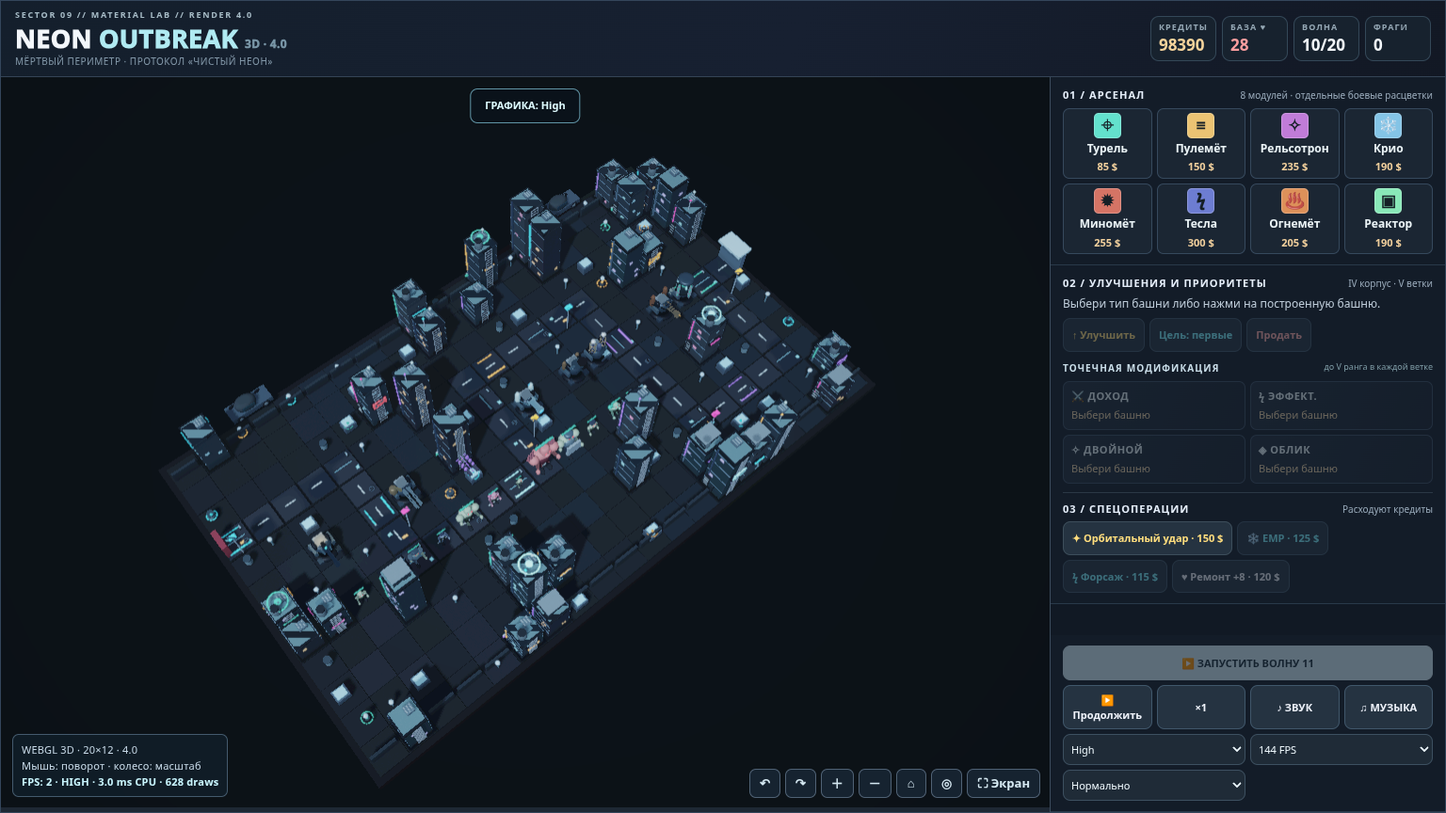
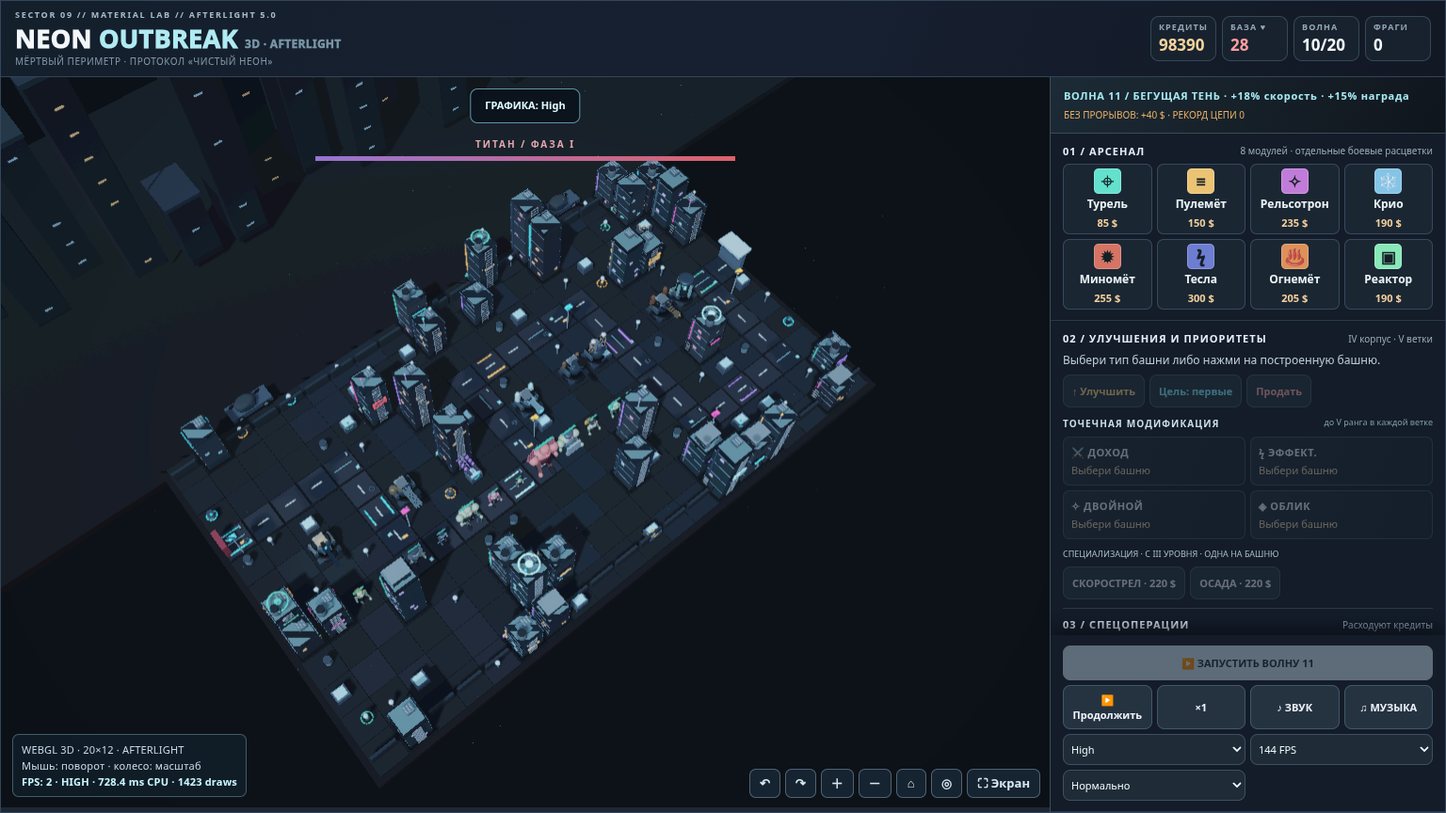
Add Afterlight campaign doctrines, tower specializations, elite operations and atmosphere

diff --git a/js/game.js b/js/game.js
@@ -63,9 +63,27 @@ return k==='damage'?`+${Math.round(r*22)}% урон`:k==='rate'?`+${Math.round(r
 function modify(k){const t=selected;if(!t||over||!towers.includes(t)||!MODS.includes(k))return;const m=mods(t),rank=m[k],price=modCost(t,k);if(rank>=5||money<price)return;money-=price;t.invested+=price;m[k]++;burst(t.x,t.z,DEF[t.type].color,18,4);ring(t.x,t.z,DEF[t.type].color,1.65);tone(725+rank*70,.16,'triangle',.016);toast(`МОДУЛЬ ${modLabels[k]} · РАНГ ${m[k]}/5`);hud()}
 function critChance(t){return .06+mods(t).crit*.075}
 function critPower(t){return 1.65+mods(t).crit*.21}
-function lvCost(t){return Math.round(DEF[t.type].cost*.62+t.level*76)}function range(t){return T*(DEF[t.type].range+(t.level-1)*.28)}function dmg(t){return DEF[t.type].dmg*(1+.56*(t.level-1))*(1+mods(t).damage*.22)}function income(t){const m=mods(t),base=DEF.bank.income*(1+(t.level-1)*.7)*(1+.22*m.damage+.16*m.rate);return Math.round(base)}
-function reset(){corpses=[];inspecting=false;money=580;hp=28;wave=0;kills=0;towers=[];zombies=[];bullets=[];particles=[];beams=[];explosions=[];selected=null;build='gun';ability=null;hover=null;active=false;paused=false;over=false;spawnLeft=0;spawnCount=0;total=0;spawnClock=0;speed=1;emp=0;boost=0;difficulty=1;uid=0;elapsed=0;shake=0;hudClock=0;msgClock=0;$('#n-end').style.display='none';$('#n-progress').style.width='0%';$('#n-difficulty').value='1';$('#n-difficulty').disabled=false;toast('3D-ПРОТОКОЛ АКТИВЕН · УДЕРЖИ СЕКТОР 09',4);hud()}
+function lvCost(t){return Math.round(DEF[t.type].cost*.62+t.level*76)}function range(t){return T*(DEF[t.type].range+(t.level-1)*.28+(t.specialty==='siege'?.65:0))}function dmg(t){return DEF[t.type].dmg*(1+.56*(t.level-1))*(1+mods(t).damage*.22)*(1+research.kinetic*.08)*(t.specialty==='siege'?1.3:1)}function income(t){const m=mods(t),base=DEF.bank.income*(1+(t.level-1)*.7)*(1+.22*m.damage+.16*m.rate);return Math.round(base*(1+research.economy*.08)*(t.specialty==='siege'?1.3:t.specialty==='rapid'?1.2:1))}
+// Campaign-wide decisions are independent of tower ranks and never block the next wave.
+let research={kinetic:0,control:0,economy:0},researchPoints=0,combo=0,comboClock=0,bestCombo=0,waveLeaks=0,pulseCooldown=0;
+const OPERATIONS=[{name:'КАРАНТИН',hint:'Обычный натиск',hp:1,speed:1},{name:'БЕГУЩАЯ ТЕНЬ',hint:'+18% скорость · +15% награда',hp:1,speed:1.18},{name:'ЖЕЛЕЗНЫЙ ДОЖДЬ',hint:'+25% здоровье · +20% награда',hp:1.25,speed:.95},{name:'ЗОЛОТАЯ ЛИХОРАДКА',hint:'+35% награда · элитные заражённые',hp:1.1,speed:1.05}];
+function operation(n){return OPERATIONS[Math.floor((Math.max(1,n)-1)/2)%OPERATIONS.length]}
+function researchBuy(key){if(!Object.hasOwn(research,key)||!researchPoints||over||research[key]>=5)return;researchPoints--;research[key]++;tone(980,.16);toast('ДОКТРИНА УСИЛЕНА · РАНГ '+research[key]);hud()}
+function specialize(kind){const t=selected;if(!t||!['siege','rapid'].includes(kind)||t.level<3||t.specialty||money<220||over)return;money-=220;t.invested+=220;t.specialty=kind;burst(t.x,t.z,DEF[t.type].color,24,3);hud()}
+function tacticalPulse(){if(!active||paused||over||pulseCooldown>0)return;pulseCooldown=24;for(const e of zombies){e.slow=Math.max(e.slow,2.5+research.control*.3);e.hurt=.18}ring(0,0,'#a6eaf2',24);toast('ТАКТИЧЕСКИЙ ИМПУЛЬС · ПЕРЕЗАРЯДКА 24 СЕК');tone(540,.35,'sine');hud()}
+function campaignHUD(){
+ const next=active?wave:Math.min(MAX,wave+1),op=operation(next);
+ $('#n-forecast').textContent='ВОЛНА '+next+' / '+op.name+' · '+(next%5===0?'БОСС · ':'')+op.hint;
+ $('#n-combo').textContent=combo>1?'ЦЕПЬ ×'+combo+' · РЕКОРД '+bestCombo:'БЕЗ ПРОРЫВОВ: +40 $ · РЕКОРД ЦЕПИ '+bestCombo;
+ $('#n-research-count').textContent=researchPoints+' ОЧК. · КАЖДЫЕ 3 ВОЛНЫ';
+ root.querySelectorAll('[data-research]').forEach(b=>{const k=b.dataset.research;b.disabled=!researchPoints||research[k]>=5||over;b.querySelector('small').textContent=research[k]+'/5 · '+({kinetic:'+8% урон',control:'+12% контроль',economy:'+8% доход'}[k])});
+ for(const kind of ['rapid','siege']){const b=$('#n-spec-'+kind);b.disabled=!selected||selected.level<3||!!selected.specialty||money<220||over;b.textContent=selected?.specialty===kind?'✓ '+(kind==='rapid'?'СКОРОСТРЕЛ':'ОСАДА'):(kind==='rapid'?'СКОРОСТРЕЛ':'ОСАДА')+' · 220 $';}
+ $('#n-pulse').disabled=!active||pulseCooldown>0||over||paused;$('#n-pulse').textContent=pulseCooldown>0?'ИМПУЛЬС · '+Math.ceil(pulseCooldown)+' с':'◉ ТАКТИЧЕСКИЙ ИМПУЛЬС · ГОТОВ';
+ const boss=zombies.find(e=>e.type==='boss'&&!e.dead);$('#n-boss').hidden=!boss;if(boss){$('#n-boss-name').textContent=boss.enraged?'ТИТАН / ФАЗА II — ЯРОСТЬ':'ТИТАН / ФАЗА I';$('#n-boss-hp').style.width=(100*boss.hp/boss.max)+'%';}
+}
+function reset(){$('.controls-panel').scrollTop=0;research={kinetic:0,control:0,economy:0};researchPoints=combo=bestCombo=comboClock=waveLeaks=pulseCooldown=0;corpses=[];inspecting=false;money=580;hp=28;wave=0;kills=0;towers=[];zombies=[];bullets=[];particles=[];beams=[];explosions=[];selected=null;build='gun';ability=null;hover=null;active=false;paused=false;over=false;spawnLeft=0;spawnCount=0;total=0;spawnClock=0;speed=1;emp=0;boost=0;difficulty=1;uid=0;elapsed=0;shake=0;hudClock=0;msgClock=0;$('#n-end').style.display='none';$('#n-progress').style.width='0%';$('#n-difficulty').value='1';$('#n-difficulty').disabled=false;toast('3D-ПРОТОКОЛ АКТИВЕН · УДЕРЖИ СЕКТОР 09',4);hud()}
 function hud(){
+campaignHUD();
 $('#n-cash').textContent=Math.floor(money);$('#n-hp').textContent=hp;$('#n-wave').textContent=wave+'/20';$('#n-kills').textContent=kills;
 $('#n-start').disabled=active||over||paused||wave>=MAX;$('#n-start').textContent=active?'☣ ИДЁТ ВОЛНА '+wave:'▶ ЗАПУСТИТЬ ВОЛНУ '+(wave+1);
 $('#n-pause').textContent=paused?'▶ Продолжить':'Ⅱ Пауза';$('#n-speed').textContent='×'+speed;
@@ -88,24 +106,24 @@ function overdrive(){if(!active||over||money<115)return;money-=115;boost=7;toast
 function repair(){if(money<120||over||hp>=28)return;money-=120;hp=Math.min(28,hp+8);let p=w(19,5);burst(p.x,p.z,'#b8ffc9',22,4,2);tone(840,.18);hud()}
 function orbital(x,z){if(money<150||over)return;money-=150;ability=null;selected=null;build=null;ring(x,z,'#ffcd97',T*2.45);burst(x,z,'#ffe3b9',76,8,1.2);synthEffect('blast',x,z,true);shake=.28;for(const e of zombies){let dis=Math.hypot(e.x-x,e.z-z);if(!e.dead&&dis<T*2.45)hit(e,(450+wave*30)*(1-.38*dis/(T*2.45)),true)}tone(105,.42,'sawtooth',.045);hud()}
 function makeType(i,n){if(wave%5===0&&i===n-1)return'boss';if(wave>=9&&i%12===9)return'bulwark';if(wave>=7&&i%11===6)return'reaper';if(wave>=5&&i%10===3)return'regen';if(wave>=8&&i%13===9)return'brute';if(wave>=6&&i%10===7)return'splitter';if(wave>=4&&i%8===4)return'armor';if(wave>=3&&i%7===3)return'shadow';if(wave>=2&&i%4===2)return'runner';return'walker'}
-function spawn(type,x=route[0].x,z=route[0].z,segment=1){const sc=1.22+.26*(wave-1)+.013*(wave-1)*(wave-1),st={walker:[72,1.10,.7,14],runner:[48,2.1,.57,12],armor:[215,.8,.86,29],shadow:[84,1.72,.62,21],splitter:[145,1.24,.74,26],brute:[440,.73,1.07,52],bulwark:[660,.66,1.14,60],reaper:[130,2.30,.74,25],regen:[310,1.03,.80,35],boss:[1300+wave*255,.61,1.45,240],mini:[32,2.15,.43,7]}[type],health=st[0]*sc*difficulty;zombies.push({id:++uid,type,x,z,seg:segment,hp:health,max:health,v:st[1]+(type==='boss'?0:wave*.023),scale:st[2],reward:st[3],age:Math.random()*2,angle:0,slow:0,burn:0,dead:false});if(type==='boss')synthEffect('boss',x,z,true);}
-function start(){if(over||active||paused||wave>=MAX)return;wave++;active=true;difficulty=Number($('#n-difficulty').value)||1;$('#n-difficulty').disabled=true;total=20+wave*6+(wave%5===0?20:0);spawnLeft=total;spawnCount=0;spawnClock=.25;toast(wave%5===0?'⚠ БОСС И ОРДА · ВОЛНА '+wave:'☣ ВОЛНА '+wave+' · '+total+' ЗАРАЖЁННЫХ',3.3);tone(175,.3,'sawtooth',.028);synthEffect('siren',0,0,true);hud()}
-function kill(e){if(e.dead)return;e.dead=true;corpses.push({...e,ttl:.65});if(corpses.length>24)corpses.shift();kills++;money+=e.reward;burst(e.x,e.z,e.type==='boss'?'#ff929a':'#a9d4b8',e.type==='boss'?54:12,e.type==='boss'?8:3,e.scale*1.3);if(e.type==='boss'){shake=.27;tone(125,.3,'sawtooth',.035)}zombieVoice(e,true);if(e.type==='splitter')for(let i=0;i<2;i++)spawn('mini',e.x+(i?.3:-.3),e.z+(i?-.2:.2),e.seg)}
+function spawn(type,x=route[0].x,z=route[0].z,segment=1){const sc=1.22+.26*(wave-1)+.013*(wave-1)*(wave-1),st={walker:[72,1.10,.7,14],runner:[48,2.1,.57,12],armor:[215,.8,.86,29],shadow:[84,1.72,.62,21],splitter:[145,1.24,.74,26],brute:[440,.73,1.07,52],bulwark:[660,.66,1.14,60],reaper:[130,2.30,.74,25],regen:[310,1.03,.80,35],boss:[1300+wave*255,.61,1.45,240],mini:[32,2.15,.43,7]}[type],health=st[0]*sc*difficulty;zombies.push({id:++uid,type,x,z,seg:segment,hp:health,max:health,v:st[1]+(type==='boss'?0:wave*.023),scale:st[2],reward:st[3],age:Math.random()*2,angle:0,slow:0,burn:0,dead:false});const e=zombies[zombies.length-1],op=operation(wave);e.max*=op.hp;e.hp=e.max;e.v*=op.speed;e.reward=Math.round(e.reward*(op===OPERATIONS[1]?1.15:op===OPERATIONS[2]?1.2:op===OPERATIONS[3]?1.35:1));if(type!=='boss'&&wave>=4&&e.id%9===0){e.elite=true;e.max*=1.55;e.hp=e.max;e.reward*=2;e.scale*=1.10;}if(type==='boss')synthEffect('boss',x,z,true);}
+function start(){if(over||active||paused||wave>=MAX)return;wave++;waveLeaks=0;combo=0;active=true;difficulty=Number($('#n-difficulty').value)||1;$('#n-difficulty').disabled=true;total=20+wave*6+(wave%5===0?20:0);spawnLeft=total;spawnCount=0;spawnClock=.25;toast(wave%5===0?'⚠ БОСС И ОРДА · ВОЛНА '+wave:'☣ ВОЛНА '+wave+' · '+total+' ЗАРАЖЁННЫХ',3.3);tone(175,.3,'sawtooth',.028);synthEffect('siren',0,0,true);hud()}
+function kill(e){if(e.dead)return;e.dead=true;corpses.push({...e,ttl:.65});if(corpses.length>24)corpses.shift();kills++;combo=comboClock>0?combo+1:1;comboClock=2.5;bestCombo=Math.max(bestCombo,combo);money+=Math.round(e.reward*(1+research.economy*.08));if(combo%10===0){money+=15;toast('ЦЕПЬ ×'+combo+' · +15 $',1.2)}burst(e.x,e.z,e.type==='boss'?'#ff929a':'#a9d4b8',e.type==='boss'?54:12,e.type==='boss'?8:3,e.scale*1.3);if(e.type==='boss'){shake=.27;tone(125,.3,'sawtooth',.035)}zombieVoice(e,true);if(e.type==='splitter')for(let i=0;i<2;i++)spawn('mini',e.x+(i?.3:-.3),e.z+(i?-.2:.2),e.seg)}
 function hit(e,amount,pierce=false,slow=0,burn=0){if(e.dead)return;e.hurt=.18;e.hp-=amount*(((e.type==='armor'||e.type==='bulwark')&&!pierce)?(e.type==='bulwark'?.42:.57):1);e.slow=Math.max(e.slow,slow);e.burn=Math.max(e.burn,burn);if(e.hp<=0)kill(e)}
-function target(t){let best=null,score=-Infinity;for(const e of zombies){if(e.dead)continue;let di=Math.hypot(e.x-t.x,e.z-t.z);if(di>range(t))continue;let k=t.priority==='strong'?e.hp:t.priority==='near'?-di:e.seg*1000-di;if(k>score){score=k;best=e}}return best}
-function shoot(t,e){const d=DEF[t.type];t.aim=Math.atan2(e.x-t.x,e.z-t.z);t.cool=d.rate/(1+.14*(t.level-1))/(1+mods(t).rate*.17)/(boost>0?1.6:1);t.flash=.1;const crit=Math.random()<critChance(t),shotDamage=dmg(t)*(crit?critPower(t):1);
+function target(t){let best=null,score=-Infinity;for(const e of zombies){if(e.dead)continue;let di=Math.hypot(e.x-t.x,e.z-t.z);if(di>range(t))continue;let k=t.priority==='strong'?e.hp:t.priority==='near'?-di:e.seg*1000-Math.hypot(e.x-route[Math.min(e.seg,route.length-1)].x,e.z-route[Math.min(e.seg,route.length-1)].z);if(k>score){score=k;best=e}}return best}
+function shoot(t,e){const d=DEF[t.type];t.aim=Math.atan2(e.x-t.x,e.z-t.z);t.cool=d.rate/(1+.14*(t.level-1))/(1+mods(t).rate*.17)/(boost>0?1.6:1)/(t.specialty==='rapid'?1.35:1);t.flash=.1;const crit=Math.random()<critChance(t),shotDamage=dmg(t)*(crit?critPower(t):1);
 if(d.chain){let cur=e,prev={x:t.x,y:1.3,z:t.z},seen=new Set();for(let i=0;i<3+Math.floor((t.level-1)/2)&&cur;i++){const to={x:cur.x,y:.95*cur.scale+0.2,z:cur.z};beams.push({a:prev,b:to,ttl:.19,color:d.color});let x=cur.x,z=cur.z;hit(cur,shotDamage*Math.pow(.77,i),true);seen.add(cur.id);prev={x,y:to.y,z};let next=null,near=2.6;for(let q of zombies){let distance=Math.hypot(q.x-x,q.z-z);if(!q.dead&&!seen.has(q.id)&&distance<near){near=distance;next=q}}cur=next}burst(e.x,e.z,'#b0c0ff',7,2)}
-else{bullets.push({x:t.x,y:1.52,z:t.z,tx:e.x,ty:.95*e.scale+0.2,tz:e.z,target:e,type:t.type,damage:shotDamage,critical:crit,vel:d.vel,aoe:d.aoe||0,slow:d.slow||0,burn:d.burn||0,pierce:!!d.pierce,color:d.color,ttl:2})}
+else{bullets.push({x:t.x,y:1.52,z:t.z,tx:e.x,ty:.95*e.scale+0.2,tz:e.z,target:e,type:t.type,damage:shotDamage,critical:crit,vel:d.vel,aoe:d.aoe||0,slow:(d.slow||0)*(1+research.control*.12),burn:(d.burn||0)*(1+research.control*.12),pierce:!!d.pierce,color:d.color,ttl:2})}
 synthEffect(t.type,t.x,t.z)
 }
 function finish(win){over=true;active=false;paused=false;$('#n-end').style.display='flex';$('#n-emblem').textContent=win?'🏆':'☠';$('#n-endtitle').textContent=win?'СЕКТОР ОЧИЩЕН':'ОБОРОНА ПАЛА';$('#n-endtitle').style.color=win?'#c3f6ff':'#ffa3a2';$('#n-endinfo').textContent=win?'Ты пережил 20 волн и уничтожил '+kills+' заражённых. Периметр удержан.':'База уничтожена на волне '+wave+'. Убито '+kills+' мутантов. Перестрой оборону и попробуй снова.';tone(win?800:125,.4,win?'triangle':'sawtooth',.045);hud()}
-function step(dt){if(!paused){for(const body of corpses)body.ttl-=dt;corpses=corpses.filter(body=>body.ttl>0)}elapsed+=dt;if(msgClock>0){msgClock-=dt;if(msgClock<=0)$('#n-toast').style.opacity='0'}shake=Math.max(0,shake-dt);if(paused||over)return;emp=Math.max(0,emp-dt);boost=Math.max(0,boost-dt);
+function step(dt){if(!paused){for(const body of corpses)body.ttl-=dt;corpses=corpses.filter(body=>body.ttl>0)}elapsed+=dt;if(msgClock>0){msgClock-=dt;if(msgClock<=0)$('#n-toast').style.opacity='0'}shake=Math.max(0,shake-dt);if(paused||over)return;pulseCooldown=Math.max(0,pulseCooldown-dt);comboClock=Math.max(0,comboClock-dt);emp=Math.max(0,emp-dt);boost=Math.max(0,boost-dt);
 if(active&&spawnLeft){spawnClock-=dt;while(spawnClock<=0&&spawnLeft){spawn(makeType(spawnCount,total));spawnLeft--;spawnCount++;spawnClock+=Math.max(.16,.46-wave*.010)}}
-for(const e of zombies){if(e.dead)continue;e.hurt=Math.max(0,(e.hurt||0)-dt);e.age+=dt;e.slow=Math.max(0,e.slow-dt);if(active&&Math.random()<dt*.085)zombieVoice(e);if(e.type==='regen')e.hp=Math.min(e.max,e.hp+dt*e.max*.011);if(e.burn>0){e.burn=Math.max(0,e.burn-dt);e.hp-=28*dt;if(e.hp<=0){kill(e);continue}}let travel=dt*e.v*(emp>0?.065:e.slow>0?.43:1),guard=0;while(travel>0&&e.seg<route.length&&guard++<35){const p=route[e.seg],dx=p.x-e.x,dz=p.z-e.z,d=Math.hypot(dx,dz);if(d<.00001){e.seg++;continue}e.angle=Math.atan2(dx,dz);if(travel>=d){e.x=p.x;e.z=p.z;e.seg++;travel-=d}else{e.x+=dx/d*travel;e.z+=dz/d*travel;travel=0}}if(e.seg>=route.length){e.dead=true;hp=Math.max(0,hp-(e.type==='boss'?5:e.type==='bulwark'?3:e.type==='reaper'?2:e.type==='brute'?2:1));const base=w(19,5);burst(base.x,base.z,'#ff8c91',20,4,1.5);shake=.18;tone(110,.15,'sawtooth',.025);if(hp<=0){finish(false);break}}}
+for(const e of zombies){if(e.dead)continue;e.hurt=Math.max(0,(e.hurt||0)-dt);e.age+=dt;e.slow=Math.max(0,e.slow-dt);if(e.type==='boss'&&!e.enraged&&e.hp<e.max*.5){e.enraged=true;e.v*=1.3;ring(e.x,e.z,'#dc626a',3);toast('ТИТАН ПЕРЕШЁЛ В ФАЗУ II · СКОРОСТЬ +30%')}if(active&&Math.random()<dt*.085)zombieVoice(e);if(e.type==='regen')e.hp=Math.min(e.max,e.hp+dt*e.max*.011);if(e.burn>0){e.burn=Math.max(0,e.burn-dt);e.hp-=28*dt;if(e.hp<=0){kill(e);continue}}let travel=dt*e.v*(emp>0?.065:e.slow>0?.43:1),guard=0;while(travel>0&&e.seg<route.length&&guard++<35){const p=route[e.seg],dx=p.x-e.x,dz=p.z-e.z,d=Math.hypot(dx,dz);if(d<.00001){e.seg++;continue}e.angle=Math.atan2(dx,dz);if(travel>=d){e.x=p.x;e.z=p.z;e.seg++;travel-=d}else{e.x+=dx/d*travel;e.z+=dz/d*travel;travel=0}}if(e.seg>=route.length){e.dead=true;waveLeaks++;hp=Math.max(0,hp-(e.type==='boss'?5:e.type==='bulwark'?3:e.type==='reaper'?2:e.type==='brute'?2:1));const base=w(19,5);burst(base.x,base.z,'#ff8c91',20,4,1.5);shake=.18;tone(110,.15,'sawtooth',.025);if(hp<=0){finish(false);break}}}
 if(!over){for(const t of towers){if(t.type==='bank')continue;t.cool-=dt;t.flash=Math.max(0,t.flash-dt);if(t.cool<=0){const e=target(t);if(e)shoot(t,e);else t.cool=0}}
 for(const b of bullets){if(b.dead)continue;b.ttl-=dt;if(b.ttl<=0){b.dead=true;continue}if(!b.target.dead){b.tx=b.target.x;b.tz=b.target.z;b.ty=b.target.scale*.95+.15}if(b.target.dead&&!b.aoe){b.dead=true;continue}b.px=b.x;b.py=b.y;b.pz=b.z;const dx=b.tx-b.x,dy=b.ty-b.y,dz=b.tz-b.z,len=Math.hypot(dx,dy,dz),step=b.vel*dt;if(len<=step+.21){b.dead=true;if(b.aoe){burst(b.tx,b.tz,b.color,b.type==='mortar'?25:11,b.type==='mortar'?5:2,b.ty);if(b.critical){ring(b.tx,b.tz,'#fff1c0',b.aoe*.64);burst(b.tx,b.tz,'#fff6cb',11,3,b.ty)}if(b.type==='mortar'){ring(b.tx,b.tz,b.color,b.aoe);synthEffect('blast',b.tx,b.tz);shake=Math.max(shake,.07)}for(const e of zombies){let di=Math.hypot(e.x-b.tx,e.z-b.tz);if(!e.dead&&di<b.aoe+.2)hit(e,b.damage*(b.type==='mortar'?1-.3*di/b.aoe:1),b.pierce,b.slow,b.burn)}}else if(!b.target.dead){hit(b.target,b.damage,b.pierce);burst(b.tx,b.tz,b.critical?'#fffee2':b.color,b.critical?17:b.type==='rail'?9:3,b.critical?3:1.5,b.ty);if(b.critical)ring(b.tx,b.tz,'#fff3bc',.85)}}else{b.x+=dx/len*step;b.y+=dy/len*step;b.z+=dz/len*step}}
 zombies=zombies.filter(e=>!e.dead);bullets=bullets.filter(b=>!b.dead);
-if(active&&spawnLeft===0&&zombies.length===0){active=false;const bonus=85+wave*32+Math.round(towers.filter(t=>t.type==='bank').reduce((sum,t)=>sum+income(t)*(Math.random()<.08+mods(t).crit*.08?2:1),0));money+=bonus;$('#n-progress').style.width='100%';if(wave===MAX)finish(true);else{toast('✓ ВОЛНА '+wave+' ОТБИТА · +'+bonus+' КРЕДИТОВ',4);tone(800,.2)}hud()}}
+if(active&&spawnLeft===0&&zombies.length===0){active=false;const bonus=85+wave*32+Math.round(towers.filter(t=>t.type==='bank').reduce((sum,t)=>sum+income(t)*(Math.random()<.08+mods(t).crit*.08?2:1),0));money+=bonus;if(waveLeaks===0){money+=40;hp=Math.min(28,hp+1)}if(wave%3===0){researchPoints++;toast('ДОСТУПНА НОВАЯ ДОКТРИНА',3)}$('#n-progress').style.width='100%';if(wave===MAX)finish(true);else{toast('✓ ВОЛНА '+wave+' ОТБИТА · +'+bonus+' КРЕДИТОВ',4);tone(800,.2)}hud()}}
 for(const p of particles){p.x+=p.vx*dt;p.y+=p.vy*dt;p.z+=p.vz*dt;p.vy-=6*dt;p.ttl-=dt}particles=particles.filter(p=>p.ttl>0&&p.y>-.5);for(const b of beams)b.ttl-=dt;beams=beams.filter(b=>b.ttl>0);for(const r of explosions)r.ttl-=dt;explosions=explosions.filter(r=>r.ttl>0);
 hudClock-=dt;if(hudClock<=0){hudClock=.16;hud()}}
 // Native WebGL meshes and shaders: all scenery, towers, zombies and impacts are actual 3D geometry.
@@ -331,6 +349,9 @@ for(let i=0;i<smallProps.length;i++){
  draw('ring',p.x,.28,p.z,.59,.07,.59,col,0,.7);
  draw('sphere',p.x,.42,p.z,.16,.16,.16,col,0,.7);
 }
+// Industrial horizon: quiet silhouettes beyond the playable sector.
+draw('box',0,-.8,-25,100,.6,29,'#0c151e',0,0,1,1);
+for(let i=0;i<26;i++){const x=(i-12.5)*3.3,z=-23-noise(i*17)*5,h=5+noise(i*19)*13;draw('box',x,h*.5,z,2.2,h,2.8,'#18222c',0,0,1,1);draw('box',x,h+.15,z,2.4,.3,3,'#25333e');if(i%3===0)draw('cyl',x,h+1,z,.07,2,.07,'#546875');for(let k=1;k<h;k+=1.8)if(noise(i+k)>.45)draw('box',x,k,z+1.42,.5,.13,.02,i%3?'#819aab':'#c1a178',0,.22);}
 // Service district: stepped roofs, cooling stacks, fire ladders and perimeter crash barriers.
 for(const b of structures){
  const id=Math.abs(b.a),h=b.h;
@@ -380,6 +401,7 @@ function tower3d(t){
  part('box',0,.37,-.61,.36,.07,.07,accent,.9);
  // Upgrades are armor, heatsinks and structural outriggers, rather than luminous rings.
  for(let i=0;i<rank;i++)for(const side of [-1,1]){part('box',side*(.53+i*.055),.62+i*.12,-.12,.16,.31,.70,'#4d5e6a');if(hi)pipe([side*.57,.35,-.45],[side*.57,.85,.15],.065)}
+ if(t.specialty==='siege')for(const side of [-1,1])part('housing',side*.63,.62,-.14,.25,.65,.85,'#667986');if(t.specialty==='rapid')for(let j=0;j<5;j++)part('box',-.3+j*.15,1.46,-.28,.07,.25,.42,'#81949d');
  const recoil=Math.min(.18,t.flash*1.4),charge=Math.max(0,1-t.cool/1.6);
  if(t.type==='bank'){
   part('housing',0,1.04,0,.95,.9,.95,'#26343b');part('sphere',0,1.48,0,.48,.68,.48,accent,1.1,6);
@@ -441,6 +463,7 @@ function zombie3d(e){
  if(hi){part('box',-.15,1.02,lean+.21,.11,.23,.03,'#87545b');part('box',.17,.92,lean+.21,.14,.10,.025,'#617465');}
  if(e.burn>0)part('sphere',0,.95,0,.55,.75,.55,'#e9ae63',4,.7);
  if(e.slow>0||emp>0)draw('ring',e.x,.08,e.z,1.3*s,.06,1.3*s,'#a6eaf2',0,.5);
+ if(e.elite){part('housing',0,1.2,-.25,.78,.48,.25,'#ae8351',7);part('cone',0,1.98,0,.22,.43,.22,'#e9ae63',3,.3)}
  const ratio=Math.max(0,e.hp/e.max);draw('box',e.x,2.10*s,e.z,.86*s,.07*s,.08*s,'#15232a');if(ratio>.002)draw('box',e.x-(1-ratio)*.43*s,2.10*s,e.z+.04*s,.86*s*ratio,.07*s,.08*s,ratio>.5?'#56b9a2':'#dc626a',0,.3);
 }
 const PRESETS={speed:{scale:.85,mirror:0,every:6},balanced:{scale:1,mirror:.35,every:4},high:{scale:1.25,mirror:.5,every:2},ultra:{scale:1.5,mirror:.65,every:1},cinematic:{scale:2,mirror:.75,every:1}};
@@ -511,11 +534,12 @@ const particleProgram=gl.createProgram();
 gl.attachShader(particleProgram,compile(gl.VERTEX_SHADER,`attribute vec3 aPosition;attribute vec3 aColor;attribute float aSize;uniform mat4 uVP;uniform float uPixels;varying vec3 vColor;void main(){gl_Position=uVP*vec4(aPosition,1.);gl_PointSize=clamp(aSize*uPixels/max(.1,gl_Position.w),1.,48.);vColor=aColor;}`));
 gl.attachShader(particleProgram,compile(gl.FRAGMENT_SHADER,`precision mediump float;varying vec3 vColor;void main(){float d=length(gl_PointCoord-.5)*2.;if(d>1.)discard;gl_FragColor=vec4(pow(vColor,vec3(2.2))*.9,(1.-smoothstep(.25,1.,d))*.85);}`));
 gl.linkProgram(particleProgram);if(!gl.getProgramParameter(particleProgram,gl.LINK_STATUS))throw Error(gl.getProgramInfoLog(particleProgram));
-const particleLoc={p:gl.getAttribLocation(particleProgram,'aPosition'),c:gl.getAttribLocation(particleProgram,'aColor'),s:gl.getAttribLocation(particleProgram,'aSize'),vp:gl.getUniformLocation(particleProgram,'uVP'),px:gl.getUniformLocation(particleProgram,'uPixels')},particleData=new Float32Array(550*7),particleBuffer=gl.createBuffer();
+const particleLoc={p:gl.getAttribLocation(particleProgram,'aPosition'),c:gl.getAttribLocation(particleProgram,'aColor'),s:gl.getAttribLocation(particleProgram,'aSize'),vp:gl.getUniformLocation(particleProgram,'uVP'),px:gl.getUniformLocation(particleProgram,'uPixels')},particleData=new Float32Array(750*7),particleBuffer=gl.createBuffer();
 gl.bindBuffer(gl.ARRAY_BUFFER,particleBuffer);gl.bufferData(gl.ARRAY_BUFFER,particleData.byteLength,gl.DYNAMIC_DRAW);
 function renderParticles(){
- if(!particles.length)return;const count=Math.min(550,particles.length);
- for(let i=0;i<count;i++){const p=particles[i],col=hex(p.col),o=i*7;particleData[o]=p.x;particleData[o+1]=p.y;particleData[o+2]=p.z;particleData[o+3]=col[0];particleData[o+4]=col[1];particleData[o+5]=col[2];particleData[o+6]=p.size;}
+ const rain=graphicMode==='speed'?0:100,combat=Math.min(550,particles.length),count=combat+rain;if(!count)return;
+ for(let i=0;i<combat;i++){const p=particles[i],col=hex(p.col),o=i*7;particleData[o]=p.x;particleData[o+1]=p.y;particleData[o+2]=p.z;particleData[o+3]=col[0];particleData[o+4]=col[1];particleData[o+5]=col[2];particleData[o+6]=p.size;}
+ for(let i=0;i<rain;i++){const o=(combat+i)*7;particleData[o]=(noise(i*23)-.5)*42;particleData[o+1]=((noise(i*71)*12-elapsed*5)%12+12)%12;particleData[o+2]=(noise(i*43)-.5)*28;particleData[o+3]=.28;particleData[o+4]=.42;particleData[o+5]=.48;particleData[o+6]=.025;}
  gl.useProgram(particleProgram);gl.bindBuffer(gl.ARRAY_BUFFER,particleBuffer);gl.bufferSubData(gl.ARRAY_BUFFER,0,particleData.subarray(0,count*7));
  for(const [loc,n,offset] of [[particleLoc.p,3,0],[particleLoc.c,3,12],[particleLoc.s,1,24]]){gl.enableVertexAttribArray(loc);gl.vertexAttribPointer(loc,n,gl.FLOAT,false,28,offset);}
  gl.uniformMatrix4fv(particleLoc.vp,false,vp);gl.uniform1f(particleLoc.px,canvas.height*1.3);gl.depthMask(false);drawCalls++;gl.drawArrays(gl.POINTS,0,count);gl.depthMask(true);
@@ -568,6 +592,7 @@ function render(){
  if(useFX){gl.activeTexture(gl.TEXTURE0);gl.bindTexture(gl.TEXTURE_2D,mirrorTarget.tex);gl.uniform1i(loc.reflTex,0)}
  lastMesh=null;
 renderCity();
+if(selected&&towers.includes(selected)&&selected.type!=='bank')draw('hairline',selected.x,.10,selected.z,range(selected)*2,.03,range(selected)*2,'#55ddeb',0,0,.25);
 if(selected&&towers.includes(selected)){draw('hairline',selected.x,.13,selected.z,1.63,.048,1.63,'#a6d8e7',0,0,.52)}
 if(hover&&!over){if(ability==='bomb'){draw('ring',hover.x,.15,hover.z,T*4.9,.13,T*4.9,'#ffd1a3',0,1.8);draw('sphere',hover.x,.15,hover.z,.38,.13,.38,'#ffce9c',0,2)}else if(build&&hover.c>=0&&hover.c<COLS&&hover.r>=0&&hover.r<ROWS){let can=!pathSet.has(hover.c+','+hover.r)&&!towers.some(t=>t.c===hover.c&&t.r===hover.r)&&money>=DEF[build].cost;draw('box',w(hover.c,hover.r).x,.16,w(hover.c,hover.r).z,1.64,.1,1.64,can?'#7dc3d5':'#e37a81',0,1,.6);if(can&&DEF[build].range)draw('hairline',w(hover.c,hover.r).x,.18,w(hover.c,hover.r).z,DEF[build].range*T*2,.05,DEF[build].range*T*2,'#7cb8c7',0,0,.38)}}
 for(const t of towers)tower3d(t);for(const e of zombies)zombie3d(e);for(const body of corpses){const f=1-body.ttl/.65;draw('housing',body.x,.28*body.scale*(1-f),body.z,.65*body.scale,.4*body.scale*(1-f),1.3*body.scale,'#35433f',body.angle+f*.4,0,1-f,4);}
@@ -581,7 +606,7 @@ if(useFX)postProcess();renderedFrames++;frameMS=performance.now()-frameStart;roo
 function pick(e){const b=canvas.getBoundingClientRect(),ndcx=((e.clientX-b.left)/b.width)*2-1,ndcy=1-((e.clientY-b.top)/b.height)*2;if(!camBasis)return null;const tan=Math.tan(PI/8.4),{eye,right,up,forward,aspect}=camBasis,d=norm([forward[0]+right[0]*ndcx*tan*aspect+up[0]*ndcy*tan,forward[1]+right[1]*ndcx*tan*aspect+up[1]*ndcy*tan,forward[2]+right[2]*ndcx*tan*aspect+up[2]*ndcy*tan]);if(d[1]>=-.0001)return null;const ti=-eye[1]/d[1],x=eye[0]+d[0]*ti,z=eye[2]+d[2]*ti,c=cell(x,z);return{x,z,c:c.c,r:c.r}}
 let down=null;canvas.addEventListener('pointerdown',e=>{if(e.button!==0&&e.button!==2)return;down={x:e.clientX,y:e.clientY,yaw,pitch,drag:false};try{canvas.setPointerCapture(e.pointerId)}catch(err){};});
 canvas.addEventListener('pointermove',e=>{if(down){let dx=e.clientX-down.x,dy=e.clientY-down.y;if(Math.abs(dx)+Math.abs(dy)>7)down.drag=true;if(down.drag){yaw=down.yaw-dx*.007;pitch=Math.max(.42,Math.min(1.45,down.pitch+dy*.004));hover=null}return}hover=pick(e)});
-canvas.addEventListener('pointerup',e=>{if(!down)return;let p=down;down=null;if(p.drag||over||paused||e.button===2)return;const v=pick(e);if(!v)return;if(ability==='bomb')orbital(v.x,v.z);else place(v.c,v.r);root.focus({preventScroll:true})});
+canvas.addEventListener('pointerup',e=>{if(!down)return;let p=down;down=null;if(p.drag||over||paused||e.button===2)return;const v=pick(e);if(!v)return;if(ability==='bomb')orbital(v.x,v.z);else{const repeat=e.shiftKey?build:null;place(v.c,v.r);if(repeat)choose(repeat)}root.focus({preventScroll:true})});
 canvas.addEventListener('pointercancel',()=>{down=null});canvas.addEventListener('contextmenu',e=>e.preventDefault());canvas.addEventListener('pointerleave',()=>{if(!down)hover=null});canvas.addEventListener('wheel',e=>{e.preventDefault();zoom=Math.max(21,Math.min(69,zoom*Math.exp(e.deltaY*.0011)))},{passive:false});
 $('#n-full').onclick=async()=>{try{if(document.fullscreenElement===root)await document.exitFullscreen();else if(root.requestFullscreen)await root.requestFullscreen();else toast('ПОЛНОЭКРАННЫЙ РЕЖИМ НЕ ПОДДЕРЖИВАЕТСЯ')}catch(_){toast('БРАУЗЕР НЕ РАЗРЕШИЛ ПОЛНЫЙ ЭКРАН')}};
 document.addEventListener('fullscreenchange',()=>{$('#n-full').textContent=document.fullscreenElement===root?'⛶ Выйти':'⛶ Экран';resize()});
@@ -589,6 +614,7 @@ $('#n-quality').onchange=e=>{graphicMode=e.target.value;reflectionEvery=PRESETS[
 $('#n-fpscap').onchange=e=>{toast(e.target.value==='0'?'ОГРАНИЧЕНИЕ FPS СНЯТО':'ЦЕЛЬ: ДО '+e.target.value+' FPS · ЗАВИСИТ ОТ МОНИТОРА')};
 $('#n-inspect').onclick=()=>{if(!selected){toast('ВЫБЕРИ БАШНЮ ДЛЯ ОСМОТРА');return}inspecting=!inspecting;zoom=inspecting?24:55;pitch=inspecting?.70:1.09;};
 $('#n-left').onclick=()=>yaw-=.28;$('#n-right').onclick=()=>yaw+=.28;$('#n-in').onclick=()=>zoom=Math.max(21,zoom-5);$('#n-out').onclick=()=>zoom=Math.min(69,zoom+5);$('#n-camreset').onclick=()=>{inspecting=false;yaw=-.68;pitch=1.09;zoom=55};
+root.querySelectorAll('.item').forEach(el=>{const d=DEF[el.dataset.type];el.title=d.name+' · '+(d.income?'Доход '+d.income+' $ / волна':'Урон '+d.dmg+' · Радиус '+d.range+' · Темп '+d.rate+' c')+' · Shift+щелчок: серия построек'});
 root.querySelectorAll('.item').forEach(el=>el.onclick=()=>{choose(el.dataset.type);root.focus({preventScroll:true})});
 root.querySelectorAll('.mod').forEach(b=>b.onclick=()=>modify(b.dataset.mod));$('#n-up').onclick=upgrade;$('#n-sell').onclick=sell;$('#n-target').onclick=priority;
 $('#n-bomb').onclick=()=>{if(money<150||over)return;ability=ability==='bomb'?null:'bomb';selected=null;build=null;toast(ability?'ВЫБЕРИ МЕСТО ОРБИТАЛЬНОГО УДАРА':'ОРБИТАЛЬНЫЙ УДАР ОТМЕНЁН');hud()};
@@ -613,5 +639,6 @@ function tick(ts){
  }
  frameId=requestAnimationFrame(tick);
 }
+root.querySelectorAll('[data-research]').forEach(b=>b.onclick=()=>researchBuy(b.dataset.research));$('#n-spec-rapid').onclick=()=>specialize('rapid');$('#n-spec-siege').onclick=()=>specialize('siege');$('#n-pulse').onclick=tacticalPulse;
 reset();requestAnimationFrame(tick);
 })();

diff --git a/index.html b/index.html
@@ -1,9 +1,9 @@
-<!DOCTYPE html><html lang="ru"><head><meta charset="UTF-8"><meta name="viewport" content="width=device-width, initial-scale=1.0"><title>NEON OUTBREAK 3D — GRAPHICS 4.0</title></head><body style="margin:0;background:#090d12"><div id="neon3d" class="w-full min-w-0">
+<!DOCTYPE html><html lang="ru"><head><meta charset="UTF-8"><meta name="viewport" content="width=device-width, initial-scale=1.0"><title>NEON OUTBREAK 3D — AFTERLIGHT 5.0</title></head><body style="margin:0;background:#090d12"><div id="neon3d" class="w-full min-w-0">
 <link rel="stylesheet" href="css/styles.css">
-<div class="top"><div><div class="kicker">SECTOR 09 // MATERIAL LAB // RENDER 4.0</div><h2>NEON <span>OUTBREAK</span> <span style="font-size:12px;color:#7895a6">3D · 4.0</span></h2><div class="subtitle">МЁРТВЫЙ ПЕРИМЕТР · ПРОТОКОЛ «ЧИСТЫЙ НЕОН»</div></div><div class="stats"><div class="stat"><small>КРЕДИТЫ</small><b id="n-cash" style="color:#f5d39b">580</b></div><div class="stat"><small>БАЗА ♥</small><b id="n-hp" style="color:#ff9e9f">28</b></div><div class="stat"><small>ВОЛНА</small><b id="n-wave">0/20</b></div><div class="stat"><small>ФРАГИ</small><b id="n-kills">0</b></div></div></div>
-<div class="game-layout"><main class="battlefield"><div class="world"><canvas id="n-canvas" aria-label="Трёхмерная карта Zombie Tower Defense. Щёлкни по земле для постройки, перетаскивай для вращения камеры."></canvas><div id="n-toast" class="toast"></div><div class="worldinfo" id="n-worldinfo">WEBGL 3D · 20×12 · 4.0<br>Мышь: поворот · колесо: масштаб<br><span id="n-fps" style="color:#c9f6ff;font-weight:800">FPS: —</span></div><div class="camerabar"><button class="cam" id="n-left" title="Повернуть влево">↶</button><button class="cam" id="n-right" title="Повернуть вправо">↷</button><button class="cam" id="n-in" title="Приблизить">＋</button><button class="cam" id="n-out" title="Отдалить">－</button><button class="cam" id="n-camreset" title="Исходный ракурс">⌂</button><button class="cam" id="n-inspect" title="Осмотреть выбранную башню">◎</button><button class="cam" id="n-full" title="Полноэкранный режим (F)">⛶ Экран</button></div><div id="n-end" class="end"><div id="n-emblem" style="font-size:48px">☢</div><h3 id="n-endtitle">СЕКТОР ПОТЕРЯН</h3><p id="n-endinfo"></p><button class="btn primary" id="n-restart" style="flex:none;padding:12px 26px">↻ НОВАЯ ОПЕРАЦИЯ</button></div></div>
+<div class="top"><div><div class="kicker">SECTOR 09 // MATERIAL LAB // AFTERLIGHT 5.0</div><h2>NEON <span>OUTBREAK</span> <span style="font-size:12px;color:#7895a6">3D · AFTERLIGHT</span></h2><div class="subtitle">МЁРТВЫЙ ПЕРИМЕТР · ПРОТОКОЛ «ЧИСТЫЙ НЕОН»</div></div><div class="stats"><div class="stat"><small>КРЕДИТЫ</small><b id="n-cash" style="color:#f5d39b">580</b></div><div class="stat"><small>БАЗА ♥</small><b id="n-hp" style="color:#ff9e9f">28</b></div><div class="stat"><small>ВОЛНА</small><b id="n-wave">0/20</b></div><div class="stat"><small>ФРАГИ</small><b id="n-kills">0</b></div></div></div>
+<div class="game-layout"><main class="battlefield"><div class="world"><canvas id="n-canvas" aria-label="Трёхмерная карта Zombie Tower Defense. Щёлкни по земле для постройки, перетаскивай для вращения камеры."></canvas><div id="n-boss" class="bossbar" hidden><b id="n-boss-name">ТИТАН</b><div><i id="n-boss-hp"></i></div></div><div id="n-toast" class="toast"></div><div class="worldinfo" id="n-worldinfo">WEBGL 3D · 20×12 · AFTERLIGHT<br>Мышь: поворот · колесо: масштаб<br><span id="n-fps" style="color:#c9f6ff;font-weight:800">FPS: —</span></div><div class="camerabar"><button class="cam" id="n-left" title="Повернуть влево">↶</button><button class="cam" id="n-right" title="Повернуть вправо">↷</button><button class="cam" id="n-in" title="Приблизить">＋</button><button class="cam" id="n-out" title="Отдалить">－</button><button class="cam" id="n-camreset" title="Исходный ракурс">⌂</button><button class="cam" id="n-inspect" title="Осмотреть выбранную башню">◎</button><button class="cam" id="n-full" title="Полноэкранный режим (F)">⛶ Экран</button></div><div id="n-end" class="end"><div id="n-emblem" style="font-size:48px">☢</div><h3 id="n-endtitle">СЕКТОР ПОТЕРЯН</h3><p id="n-endinfo"></p><button class="btn primary" id="n-restart" style="flex:none;padding:12px 26px">↻ НОВАЯ ОПЕРАЦИЯ</button></div></div>
 <div class="progress"><div id="n-progress"></div></div></main><aside class="controls-panel" aria-label="Панель управления обороной">
-<div class="section"><div class="sectionhead"><b>01 / АРСЕНАЛ</b><small>8 модулей · отдельные боевые расцветки</small></div><div class="shop">
+<div class="mission"><b id="n-forecast"></b><small id="n-combo"></small></div><div class="section"><div class="sectionhead"><b>01 / АРСЕНАЛ</b><small>8 модулей · отдельные боевые расцветки</small></div><div class="shop">
 <button class="item active" data-type="gun"><span class="symbol" style="background:#2ef0d2">⌖</span><b>Турель</b><span class="price">85 $</span><span class="hint">Универсал</span></button>
 <button class="item" data-type="mg"><span class="symbol" style="background:#ffc247">≡</span><b>Пулемёт</b><span class="price">150 $</span><span class="hint">Шквал</span></button>
 <button class="item" data-type="rail"><span class="symbol" style="background:#da70ff">✧</span><b>Рельсотрон</b><span class="price">235 $</span><span class="hint">Бронебой</span></button>
@@ -19,7 +19,7 @@
 <button class="mod" data-mod="rate" disabled><span class="mod-title">ϟ СКОРОСТЬ</span><span class="mod-value">—</span></button>
 <button class="mod" data-mod="crit" disabled><span class="mod-title">✧ КРИТЫ</span><span class="mod-value">—</span></button>
 <button class="mod" data-mod="skin" disabled><span class="mod-title">◈ ОБЛИК</span><span class="mod-value">—</span></button>
-</div><div class="sep"></div><div class="sectionhead"><b>03 / СПЕЦОПЕРАЦИИ</b><small>Расходуют кредиты</small></div><div class="actions"><button class="btn gold" id="n-bomb">✦ Орбитальный удар · 150 $</button><button class="btn ice" id="n-emp">❄ EMP · 125 $</button><button class="btn ice" id="n-boost">ϟ Форсаж · 115 $</button><button class="btn" id="n-repair">♥ Ремонт +8 · 120 $</button></div></div>
-<div class="section footercontrols"><div class="actions"><button class="btn primary" id="n-start">▶ ЗАПУСТИТЬ ВОЛНУ 1</button><button class="btn" id="n-pause">Ⅱ Пауза</button><button class="btn" id="n-speed">×1</button><button class="btn" id="n-sound">♪ ЗВУК</button><button class="btn" id="n-music">♫ МУЗЫКА</button><select id="n-quality" aria-label="Качество графики" title="Настройки качества"><option value="speed">Performance</option><option value="balanced">Balanced</option><option value="high" selected>High</option><option value="ultra">Ultra</option><option value="cinematic">Cinematic</option></select><select id="n-fpscap" aria-label="Ограничение FPS"><option value="144" selected>144 FPS</option><option value="120">120 FPS</option><option value="60">60 FPS</option><option value="0">Без лимита</option></select><select id="n-difficulty" aria-label="Сложность"><option value="1">Нормально</option><option value="1.6">Хардкор</option><option value="2.15">Кошмар</option></select></div></div>
+</div><div class="specializations"><small>СПЕЦИАЛИЗАЦИЯ · С III УРОВНЯ · ОДНА НА БАШНЮ</small><div class="actions"><button class="btn" id="n-spec-rapid" title="+35% темп; реактор: +20% доход">СКОРОСТРЕЛ</button><button class="btn" id="n-spec-siege" title="+30% урон, +0.65 клетки радиус; реактор: +30% доход">ОСАДА</button></div></div><div class="sep"></div><div class="sectionhead"><b>03 / СПЕЦОПЕРАЦИИ</b><small>Расходуют кредиты</small></div><div class="actions"><button class="btn gold" id="n-bomb">✦ Орбитальный удар · 150 $</button><button class="btn ice" id="n-emp">❄ EMP · 125 $</button><button class="btn ice" id="n-boost">ϟ Форсаж · 115 $</button><button class="btn" id="n-repair">♥ Ремонт +8 · 120 $</button></div></div>
+<div class="section doctrines"><div class="sectionhead"><b>04 / ДОКТРИНЫ</b><small id="n-research-count"></small></div><div class="research-grid"><button data-research="kinetic"><b>БАЛЛИСТИКА</b><small></small></button><button data-research="control"><b>КОНТРОЛЬ</b><small></small></button><button data-research="economy"><b>ЛОГИСТИКА</b><small></small></button></div><button id="n-pulse" class="btn ice">ТАКТИЧЕСКИЙ ИМПУЛЬС</button></div><div class="section footercontrols"><div class="actions"><button class="btn primary" id="n-start">▶ ЗАПУСТИТЬ ВОЛНУ 1</button><button class="btn" id="n-pause">Ⅱ Пауза</button><button class="btn" id="n-speed">×1</button><button class="btn" id="n-sound">♪ ЗВУК</button><button class="btn" id="n-music">♫ МУЗЫКА</button><select id="n-quality" aria-label="Качество графики" title="Настройки качества"><option value="speed">Performance</option><option value="balanced">Balanced</option><option value="high" selected>High</option><option value="ultra">Ultra</option><option value="cinematic">Cinematic</option></select><select id="n-fpscap" aria-label="Ограничение FPS"><option value="144" selected>144 FPS</option><option value="120">120 FPS</option><option value="60">60 FPS</option><option value="0">Без лимита</option></select><select id="n-difficulty" aria-label="Сложность"><option value="1">Нормально</option><option value="1.6">Хардкор</option><option value="2.15">Кошмар</option></select></div></div>
 <div class="footer">ПАНЕЛЬ ВСЕГДА СПРАВА · УПРАВЛЕНИЕ: щелчок — башня / удар · перетаскивание — поворот 3D-камеры · колесо — зум · F — полный экран · 1–8 — башни · Q — удар · W — EMP · E — форсаж · R — ремонт · U — улучшить · Пробел — волна · Esc — отмена</div></aside></div>
 <script src="js/game.js"></script></div></body></html>

diff --git a/css/styles.css b/css/styles.css
@@ -156,3 +156,19 @@ html,body{height:100%}
 #neon3d .item .symbol{filter:saturate(.65)}
 #neon3d .cam{min-width:32px}
 #neon3d{box-sizing:border-box}
+/* AFTERLIGHT: mission intelligence and campaign choices stay inside the cockpit. */
+#neon3d .mission{padding:12px 14px;border-bottom:1px solid #3b4b59;background:linear-gradient(120deg,#1c2b36,#10151c);display:grid;gap:5px;flex-shrink:0}
+#neon3d .mission b{font-size:11px;letter-spacing:.7px;color:#a6eaf2}
+#neon3d .mission small{font-size:10px;color:#e9ae63}
+#neon3d .research-grid{display:grid;grid-template-columns:repeat(3,minmax(0,1fr));gap:5px;margin-bottom:7px}
+#neon3d .research-grid button{padding:8px 3px;display:grid;gap:4px;background:#202832;border:1px solid #465c6b;border-radius:6px;color:#d5e9ec;font-size:9px}
+#neon3d .research-grid small{font-size:9px;color:#a6c4ca}
+#neon3d .specializations{margin-top:10px;display:grid;gap:6px}
+#neon3d .specializations>small{font-size:9px;color:#a6bbc6}
+#neon3d #n-pulse{width:100%;font-size:10px}
+#neon3d .bossbar{position:absolute;top:64px;left:30%;width:40%;z-index:2;line-height:1.5;text-align:center;color:#e5a7ab;font-size:10px;letter-spacing:2px;pointer-events:none}
+#neon3d .bossbar[hidden]{display:none}
+#neon3d .bossbar div{height:5px;background:#27313d;margin-top:5px}
+#neon3d .bossbar i{display:block;height:100%;background:linear-gradient(90deg,#9774d4,#dc626a);transition:width .16s}
+#neon3d .mission{position:sticky;top:0;z-index:3}
+#neon3d .footercontrols{position:sticky;bottom:0;z-index:3;box-shadow:0 -8px 18px #090e17c9}

diff --git a/tools/build.py b/tools/build.py
@@ -6,10 +6,10 @@ out=root/'dist';out.mkdir(exist_ok=True)
 html=(root/'index.html').read_text()
 html=html.replace('<link rel="stylesheet" href="css/styles.css">','<style>\n'+(root/'css/styles.css').read_text()+'\n</style>')
 html=html.replace('<script src="js/game.js"></script>','<script>\n'+(root/'js/game.js').read_text()+'\n</script>')
-(out/'NEON_OUTBREAK_4_OFFLINE.html').write_text(html)
-with zipfile.ZipFile(out/'NEON_OUTBREAK_4_SOURCE.zip','w',zipfile.ZIP_DEFLATED) as z:
- for f in ['index.html','css/styles.css','js/game.js','README.md','GRAPHICS_OVERHAUL.md','standalone-original.html','tools/build.py','tests/browser.cjs','dist/NEON_OUTBREAK_4_OFFLINE.html']:
-  if (root/f).exists():z.write(root/f,'NEON_OUTBREAK_4/'+f)
+(out/'NEON_OUTBREAK_5_OFFLINE.html').write_text(html)
+with zipfile.ZipFile(out/'NEON_OUTBREAK_5_SOURCE.zip','w',zipfile.ZIP_DEFLATED) as z:
+ for f in ['index.html','css/styles.css','js/game.js','README.md','GRAPHICS_OVERHAUL.md','standalone-original.html','tools/build.py','tests/browser.cjs','dist/NEON_OUTBREAK_5_OFFLINE.html']:
+  if (root/f).exists():z.write(root/f,'NEON_OUTBREAK_5/'+f)
  for f in (root/'artifacts').glob('*'):
-  if f.is_file():z.write(f,'NEON_OUTBREAK_4/artifacts/'+f.name)
-print(out/'NEON_OUTBREAK_4_SOURCE.zip')
+  if f.is_file():z.write(f,'NEON_OUTBREAK_5/artifacts/'+f.name)
+print(out/'NEON_OUTBREAK_5_SOURCE.zip')

diff --git a/README.md b/README.md
@@ -1,4 +1,4 @@
-# NEON OUTBREAK 3D — Graphics 4.0
+# NEON OUTBREAK 3D — AFTERLIGHT 5.0
 
 Playable offline cyberpunk tower defense: 8 tower types, 20 waves and procedural WebGL geometry/audio. This release is a validated graphics iteration; see [GRAPHICS_OVERHAUL.md](GRAPHICS_OVERHAUL.md) for implementation details, limitations and evidence.
 
@@ -11,7 +11,7 @@ cd /workspace/gametower
 python3 -m http.server 8000 --bind 127.0.0.1
 ```
 
-Use a local browser to access the server. A generated all-in-one version is `dist/NEON_OUTBREAK_4_OFFLINE.html`. The original 3.1 version is kept in `standalone-original.html`.
+Use a local browser to access the server. A generated all-in-one version is `dist/NEON_OUTBREAK_5_OFFLINE.html`. The original 3.1 version is kept in `standalone-original.html`.
 
 Click an arsenal item and a free map cell to build. Click a tower to select, upgrade, modify, change targeting or sell. Drag to orbit, wheel to zoom, `◎` to inspect the selected tower, `⌂` to return. `1–8` select towers, Space starts a wave, `Q/W/E/R` trigger abilities, `U` upgrades, `F` toggles fullscreen, Esc cancels selection. Keep sound/music enabled or toggle them independently in the panel. Audio starts after a user gesture.
 
@@ -27,3 +27,15 @@ node tests/browser.cjs
 Build uses only Python standard library. Tests require Node, Playwright and Chromium (`CHROMIUM_PATH` optional), already present in this managed environment. The application itself has no dependencies. Rebuild after editing CSS, HTML, JS or documentation; rebuild after tests to include current screenshots/results in the ZIP. Tests use temporary local hosting and an injected testing bridge; production code has no test cheats.
 
 Source layout: `index.html`, `css/styles.css`, `js/game.js`. Current renderer is native WebGL 1, with cached procedural meshes, static city batches, normal/roughness maps, GGX material lighting, packed directional shadows, restrained planar reflections, particle batching and postprocessing. All added assets are original procedural code; no proprietary game resources are included.
+
+## AFTERLIGHT campaign systems
+
+Every third cleared wave grants one doctrine point: Ballistics (+8% global damage/rank), Control (+12% slow/burn duration/rank), Logistics (+8% rewards and reactor income/rank). Each caps at rank 5. Spend points in the cockpit; taking a doctrine never blocks starting a wave.
+
+At tower level III choose one permanent 220-credit specialization: Rapid (+35% fire rate; reactor +20% income) or Siege (+30% damage, +0.65 cells range; reactor +30% income). Specialization adds visible cooling fins or armor. Selling refunds the normal percentage of total investment.
+
+Operations change every two waves: normal quarantine, fast assault, resilient assault, bonus bounty. Forecast lists exact changes. From wave 4, some non-boss enemies become larger armored-looking elites with 1.55× HP and double rewards. Bosses enter a faster second phase below half HP.
+
+A free tactical pulse slows all enemies, with a 24-second cooldown. Existing paid abilities remain independent. A leak-free wave adds 40 credits and repairs one base HP; each ten kills in a chain adds 15 credits (chain window 2.5 simulated seconds). Hold Shift while placing to keep the same tower selected for repeated construction. Tower tooltips show core stats.
+
+These systems are new balance changes, not a claim of a finished competitive balance pass. See the browser test for functional checks; manual playtesting remains useful.

diff --git a/GRAPHICS_OVERHAUL.md b/GRAPHICS_OVERHAUL.md
@@ -62,3 +62,11 @@ Tests run on Chromium SwiftShader (software WebGL). Timings and FPS are observat
 ## Remaining requested work
 
 The next milestone should focus on dynamic instancing and measured hardware frame budgets, authored-quality zombie animation/deaths, richer per-material maps and local lighting, advanced smoke/heat effects, and more architectural variation. HDR/MSAA framebuffer support, full FXAA/SMAA (the inherited pass is a simple contrast-aware five-tap filter), SSAO, SSR, skin subsurface scattering, physically accurate glass and volumetric atmosphere are not claimed. The current release is a tested playable foundation and model/material/shadow upgrade, not the entirety of the requested high-end art production.
+
+## AFTERLIGHT 5.0 update
+
+The second iteration adds real campaign decisions: three ranked doctrines, mutually exclusive specializations, alternating operation modifiers, elite infected, a second boss phase, free cooldown-based tactical pulse, kill-chain rewards and perfect-wave bonuses. A mission forecast, boss health bar and integrated research panel make the rules visible. Existing paid abilities, tower ranks/modifications and twenty-wave campaign remain. First-target priority now measures progress within the path segment instead of distance to the firing tower. Shift-place supports repeated construction.
+
+Presentation adds a procedural distant skyline, a bounded 100-drop world-space rain field using the preallocated particle VBO (off on Performance), specialization geometry and elite armor. This is restrained atmospheric rain represented by small particles, not fluid simulation. No GPU buffers are created for rain during gameplay. The buffer capacity grows from 550 to 750 records; combat still caps at 550. New HUD content scrolls within the same cockpit.
+
+Validation additionally checks doctrine spending, exclusivity of specializations, cooldown lockout, and six earned research points over twenty waves. Campaign tests are funded simulations and do not establish natural-economy balance. The latest source/standalone filenames use `NEON_OUTBREAK_5`. Previous 4.0 technical limitations still apply: this is not a quantified 100× visual/performance improvement.
